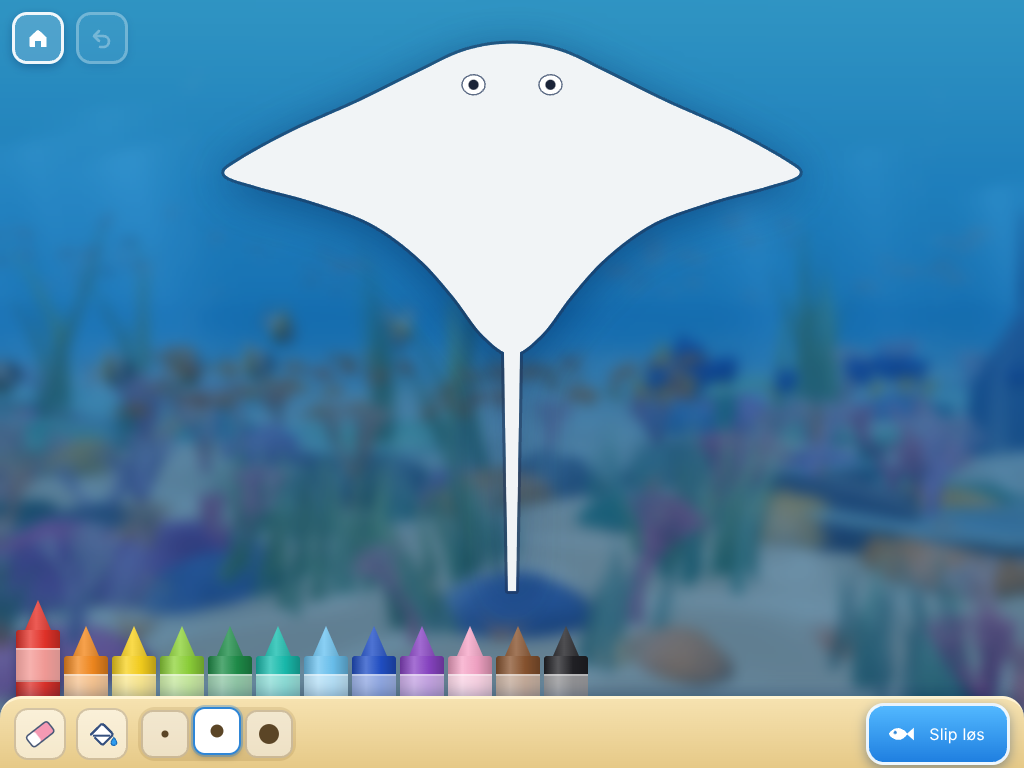
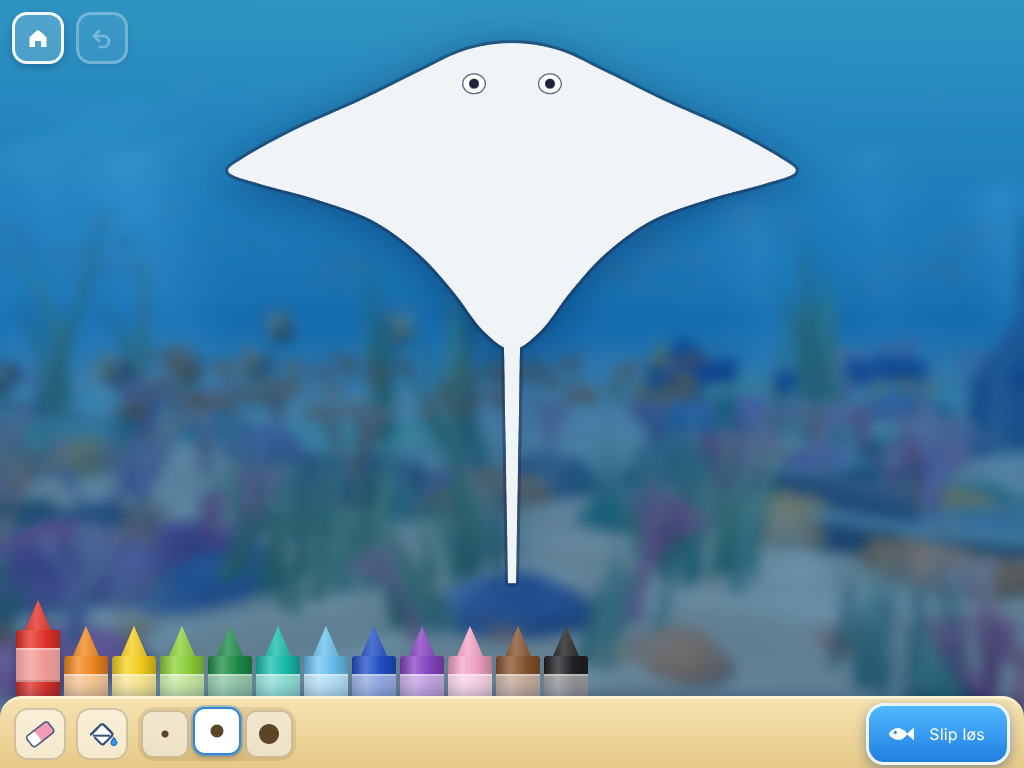
M2: compact portrait phone layout - smaller crayons, home/undo in the top corners, figure never under buttons or tray
Feedback from a real device: home/undo overlapped the ray on portrait phones. Visible buttons are
40 px with a 48 px hit area, the figure gets a reserved strip below them, the crayon tray is
273 px instead of 339 px, and the figure size now accounts for the stage padding (the tail
hid behind the tray on 375x667). New e2e test covers six portrait sizes.

Claude-Session: https://claude.ai/code/session_01FCFvuVjNw1Uvr9Zj9aMTt9

diff --git a/src/ui/panel.css b/src/ui/panel.css
@@ -342,37 +342,89 @@
   }
 }
 
-/* ---------- portrait / narrow: crayons lie in a 2×6 tray above the tools ---------- */
+/* ---------- portrait / narrow: crayons lie in a compact 2×6 tray above the tools ---------- */
 @media (orientation: portrait), (max-width: 760px) {
   .panel {
-    --cw: min(60px, calc((100vw - 28px) / 6));
-    --crayon-h: 84px;
+    --cw: min(52px, calc((100vw - 28px) / 6));
+    --portrait-top: calc(max(8px, env(safe-area-inset-top)) + 48px);
+  }
+  /* Home (left) and undo (right) sit in the top corners; the figure never starts above the strip they use. */
+  .stage {
+    padding-top: calc(var(--portrait-top) + 4px);
+  }
+  .top-buttons {
+    top: max(8px, env(safe-area-inset-top));
+    left: max(8px, env(safe-area-inset-left));
+    right: max(8px, env(safe-area-inset-right));
+    justify-content: space-between;
+  }
+  /* The hit area stays 48 px, but the visible button is smaller (40 px). */
+  .round-btn {
+    width: 48px;
+    height: 48px;
+    padding: 0;
+    border: 0;
+    background: none;
+    box-shadow: none;
+    position: relative;
+    display: grid;
+    place-items: center;
+  }
+  .round-btn::before {
+    content: '';
+    position: absolute;
+    inset: 4px;
+    border-radius: 12px;
+    border: 2.5px solid rgba(255, 255, 255, 0.92);
+    background: rgba(255, 255, 255, 0.16);
+    box-shadow: 0 2px 8px rgba(0, 30, 80, 0.3);
+  }
+  .round-btn:active {
+    background: none;
+  }
+  .round-btn:active::before {
+    background: rgba(255, 255, 255, 0.36);
+  }
+  .round-btn .icon {
+    position: relative;
+    width: 22px;
+    height: 22px;
   }
   .bottom {
     height: auto;
-    padding: 12px max(14px, env(safe-area-inset-right)) max(12px, env(safe-area-inset-bottom)) max(14px, env(safe-area-inset-left));
+    padding: 8px max(12px, env(safe-area-inset-right)) max(10px, env(safe-area-inset-bottom)) max(12px, env(safe-area-inset-left));
     background: linear-gradient(#f6e2b0, #e6c987);
     border-top: 3px solid #fff4d2;
-    border-radius: 22px 22px 0 0;
+    border-radius: 20px 20px 0 0;
     box-shadow: 0 -4px 14px rgba(0, 30, 70, 0.28);
     display: flex;
     flex-direction: column;
-    gap: 10px;
+    gap: 8px;
   }
   .crayons {
     position: static;
     display: grid;
     grid-template-columns: repeat(6, var(--cw));
     justify-content: center;
-    gap: 14px 0;
-    padding-top: 16px;
+    gap: 6px 0;
+    padding-top: 12px;
   }
   .crayon {
-    height: 74px;
+    height: 56px;
     overflow: visible;
   }
+  .crayon-tip {
+    height: 22px;
+  }
+  .crayon-body {
+    top: 20px;
+  }
+  .crayon-band {
+    top: 11px;
+    height: 20px;
+  }
   .crayon[aria-checked='true'] {
-    transform: translateY(-14px);
+    transform: translateY(-11px);
   }
   .bar {
     position: static;
@@ -384,17 +436,15 @@
     border-radius: 0;
     flex-direction: column;
     align-items: stretch;
-    gap: 10px;
+    gap: 8px;
   }
   .tools {
     justify-content: center;
-  }
-  .tools {
     gap: 6px;
   }
   .tool-btn {
     width: 48px;
-    height: 52px;
+    height: 50px;
     padding: 6px;
   }
   .brush-btn {
@@ -403,15 +453,15 @@
     padding: 8px;
   }
   .release-btn {
-    height: 60px;
+    height: 52px;
     justify-content: center;
     padding: 0 14px;
-    font-size: 22px;
+    font-size: 21px;
     gap: 10px;
   }
   .release-btn .icon {
-    width: 28px;
-    height: 28px;
+    width: 26px;
+    height: 26px;
   }
 }
 

diff --git a/e2e/helpers.ts b/e2e/helpers.ts
@@ -182,3 +182,35 @@ export async function screenBox(page: import('@playwright/test').Page): Promise<
     return { left, right, top, bottom };
   });
 }
+
+/** Does any button of the drawing panel overlap the template outline on screen? Returns the offending labels. */
+export async function buttonsOverlappingTemplate(page: import('@playwright/test').Page, margin = 4): Promise<string[]> {
+  return page.evaluate((m) => {
+    type P = [number, number];
+    const panel = (window as unknown as { app: { panel: { template: { parts: Array<{ outline: P[] }> } } } }).app.panel;
+    const wrap = document.querySelector('.canvas-wrap') as HTMLElement;
+    const r = wrap.getBoundingClientRect();
+    const polys = panel.template.parts.map((p) => p.outline.map(([x, y]): P => [r.x + x * r.width, r.y + y * r.height]));
+    const inside = (x: number, y: number, poly: P[]) => {
+      let c = false;
+      for (let i = 0, j = poly.length - 1; i < poly.length; j = i++) {
+        const [xi, yi] = poly[i];
+        const [xj, yj] = poly[j];
+        if (yi > y !== yj > y && x < ((xj - xi) * (y - yi)) / (yj - yi) + xi) c = !c;
+      }
+      return c;
+    };
+    const bad: string[] = [];
+    for (const b of document.querySelectorAll<HTMLElement>('.home-btn, .undo-btn')) {
+      const q = b.getBoundingClientRect();
+      const [x0, y0, x1, y1] = [q.left - m, q.top - m, q.right + m, q.bottom + m];
+      const hit = polys.some(
+        (poly) =>
+          poly.some(([x, y]) => x >= x0 && x <= x1 && y >= y0 && y <= y1) ||
+          [[x0, y0], [x1, y0], [x0, y1], [x1, y1], [(x0 + x1) / 2, (y0 + y1) / 2]].some(([x, y]) => inside(x, y, poly)),
+      );
+      if (hit) bad.push(b.getAttribute('aria-label') ?? b.className);
+    }
+    return bad;
+  }, margin);
+}

diff --git a/e2e/m2-behaviour.spec.ts b/e2e/m2-behaviour.spec.ts
@@ -1,5 +1,5 @@
 import { expect, test } from '@playwright/test';
-import { drawingStats, line, newTouchPage, openPanel, pixelAt, TABLET, tap, templateToScreen, touchDrag } from './helpers';
+import { buttonsOverlappingTemplate, drawingStats, line, newTouchPage, openPanel, pixelAt, TABLET, tap, templateToScreen, touchDrag } from './helpers';
 
 const BASE = [241, 244, 246, 255];
 
@@ -154,6 +154,22 @@ test('touch targets are at least 48 px', async ({ browser }) => {
       expect(b.right, `${b.label} inside screen @${size.width}`).toBeLessThanOrEqual(size.width + 0.5);
     }
     expect(boxes.length).toBeGreaterThanOrEqual(19); // 12 crayons + 2 + 3 + eraser/bucket... + release
+    await t.ctx.close();
+  }
+});
+
+test('stående telefoner: knapper overlapper aldrig figuren, og figuren ligger aldrig under bunden', async ({ browser }) => {
+  for (const [w, h] of [[390, 844], [375, 667], [360, 640], [430, 932], [320, 568], [393, 700]]) {
+    const t = await newTouchPage(browser, { width: w, height: h });
+    await t.page.goto('/?still');
+    await openPanel(t.page);
+    expect(await buttonsOverlappingTemplate(t.page), `${w}x${h}`).toEqual([]);
+    const wrap = await t.page.locator('.canvas-wrap').boundingBox();
+    const bottom = await t.page.locator('.bottom').boundingBox();
+    const top = await t.page.locator('.round-btn').first().boundingBox();
+    expect((wrap?.y ?? 0) + (wrap?.height ?? 0), `${w}x${h}: figure above the tray`).toBeLessThanOrEqual((bottom?.y ?? 0) + 0.5);
+    expect(wrap?.y ?? 0, `${w}x${h}: figure below the top buttons`).toBeGreaterThanOrEqual((top?.y ?? 0) + (top?.height ?? 0));
+    expect(bottom?.height ?? 999, `${w}x${h}: compact tray`).toBeLessThan(290);
     await t.ctx.close();
   }
 });

diff --git a/src/ui/DrawingPanel.ts b/src/ui/DrawingPanel.ts
@@ -191,10 +191,12 @@ export class DrawingPanel {
 
   /** Squares the template into the free area above the tray and redraws the contour/eyes overlay. */
   private layout(): void {
-    const w = this.stage.clientWidth;
-    const hgt = this.stage.clientHeight;
+    // The free area is the stage minus its padding (portrait reserves a strip for the top buttons).
+    const cs = getComputedStyle(this.stage);
+    const w = this.stage.clientWidth - parseFloat(cs.paddingLeft) - parseFloat(cs.paddingRight);
+    const hgt = this.stage.clientHeight - parseFloat(cs.paddingTop) - parseFloat(cs.paddingBottom);
     if (!w || !hgt) return;
-    const side = Math.max(120, Math.floor(Math.min(w, hgt) - 8));
+    const side = Math.max(120, Math.floor(Math.min(w, hgt)));
     this.canvasWrap.style.width = this.canvasWrap.style.height = `${side}px`;
     if (!this.template) return;
     const dpr = Math.min(window.devicePixelRatio || 1, 2);

diff --git a/DESIGN.md b/DESIGN.md
@@ -159,4 +159,5 @@ Fælles akvarie på tværs af enheder · flere end to arter · fodring · kamera
 - **M3 – overgangen** (3,4 s): kroppen ligger fladt over tegningen (afstanden til kameraet er regnet ud, så den dækker præcis tegningens firkant; kanten afviger under 1 px, testet), tegnelaget toner ud mens akvariet bliver skarpt (inden for ca. 0,7 s), vingerne folder sig ud (0,3–1,1 s), og kroppen svømmer langs en kurve væk fra beskueren, så perspektivet krymper den. Artsvælgeren kommer tilbage efter 1,9 s. Da banen er i verdensrum, følger den ikke kameraets langsomme drift efter starten.
 - **M3 – ikke med endnu:** dyrene gemmes ikke (alt forsvinder ved genindlæsning), der er intet loft på 30 og ingen afsked – det er M4. Der er heller ingen glædeshop og ingen lyd (M6).
 - **M3 – kendt svaghed / risiko til M5:** krop-generatoren er testet på rokken (en brem + en hale, der ikke overlapper meget). Skildpaddens seks overlappende dele kan give gennemskæringer, hvor delene mødes; det må løses med delenes tykkelse eller ved at lade luffer ligge under skjoldet.
+- **M2 – stående telefon (feedback efter prøve på rigtig enhed):** hjem-knappen sidder øverst til venstre og fortryd-knappen øverst til *højre* (i liggende format ligger de stadig sammen øverst til venstre). De ser mindre ud (40 px), men trykfladen er stadig 48 px. Figuren får en reserveret stribe under dem og kan aldrig overlappe eller ligge under bunden (testet på seks størrelser fra 320×568 til 430×932). Blyanterne er mindre (52 × 56 px), så bunden fylder 273 px i stedet for 339.
 
